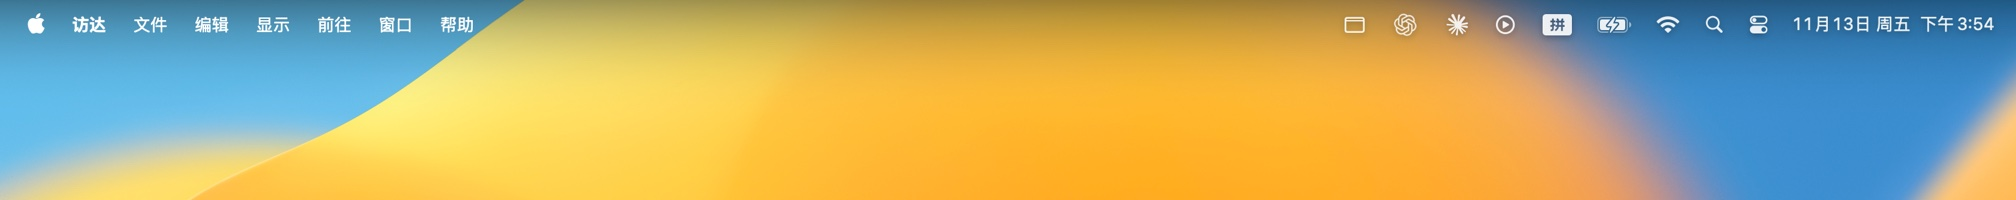
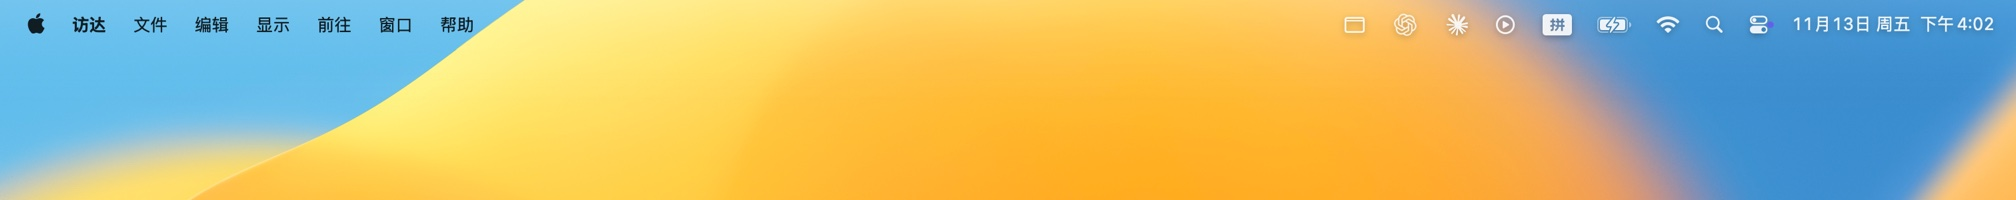
Pick the menu title colour from the wallpaper
Use whichever text colour reads with less gradient, like macOS 26, so a bright
wallpaper gets dark titles and a faint light gradient instead of being muddied
by a dark one. Near a tie, follow the system menu bar.

Changed region(s): [[0.0, 0.0, 1.0, 0.3]]

diff --git a/Sources/Overlay.swift b/Sources/Overlay.swift
@@ -100,7 +100,15 @@ final class BarView: NSView {
     override var isOpaque: Bool { true }
     override func viewDidChangeEffectiveAppearance() { needsDisplay = true }
 
-    var isDark: Bool { effectiveAppearance.bestMatch(from: [.aqua, .darkAqua]) == .darkAqua }
+    /// Light text on a dark gradient (true) or dark text on a light one. Like macOS 26, the text follows
+    /// the wallpaper: whichever colour reads with less gradient wins, so a bright wallpaper isn't muddied
+    /// by a dark gradient. On a near tie it follows the system menu bar.
+    var isDark: Bool {
+        let system = effectiveAppearance.bestMatch(from: [.aqua, .darkAqua]) == .darkAqua
+        guard wallpaper != nil else { return system }
+        let light = scrimAlpha(darkText: false), dark = scrimAlpha(darkText: true)
+        return system ? !(dark + 0.05 < light) : light + 0.05 < dark
+    }
 
     // Luminance of the parts of the wallpaper least favourable to text (90th / 10th percentile, linear 0…1).
     private var lumBright: CGFloat = 0
